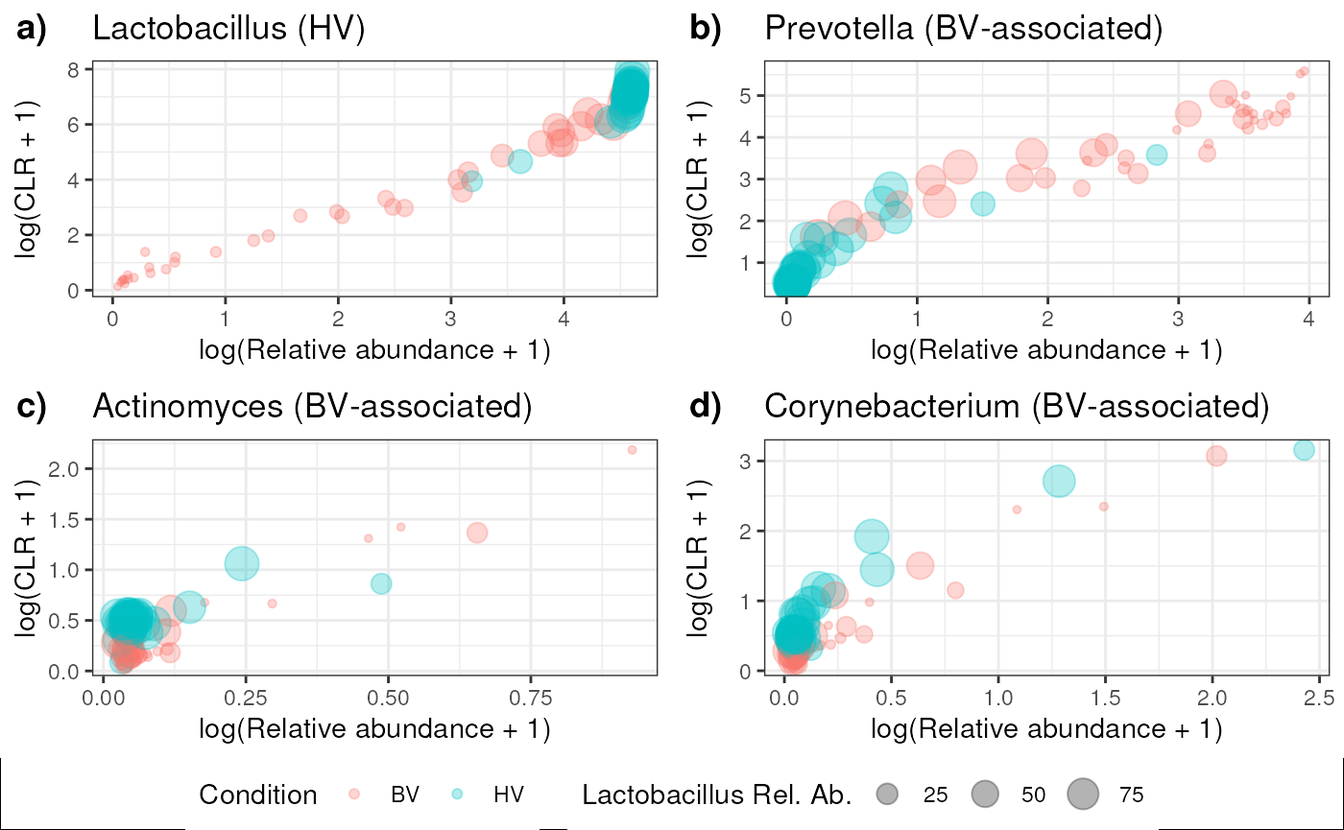
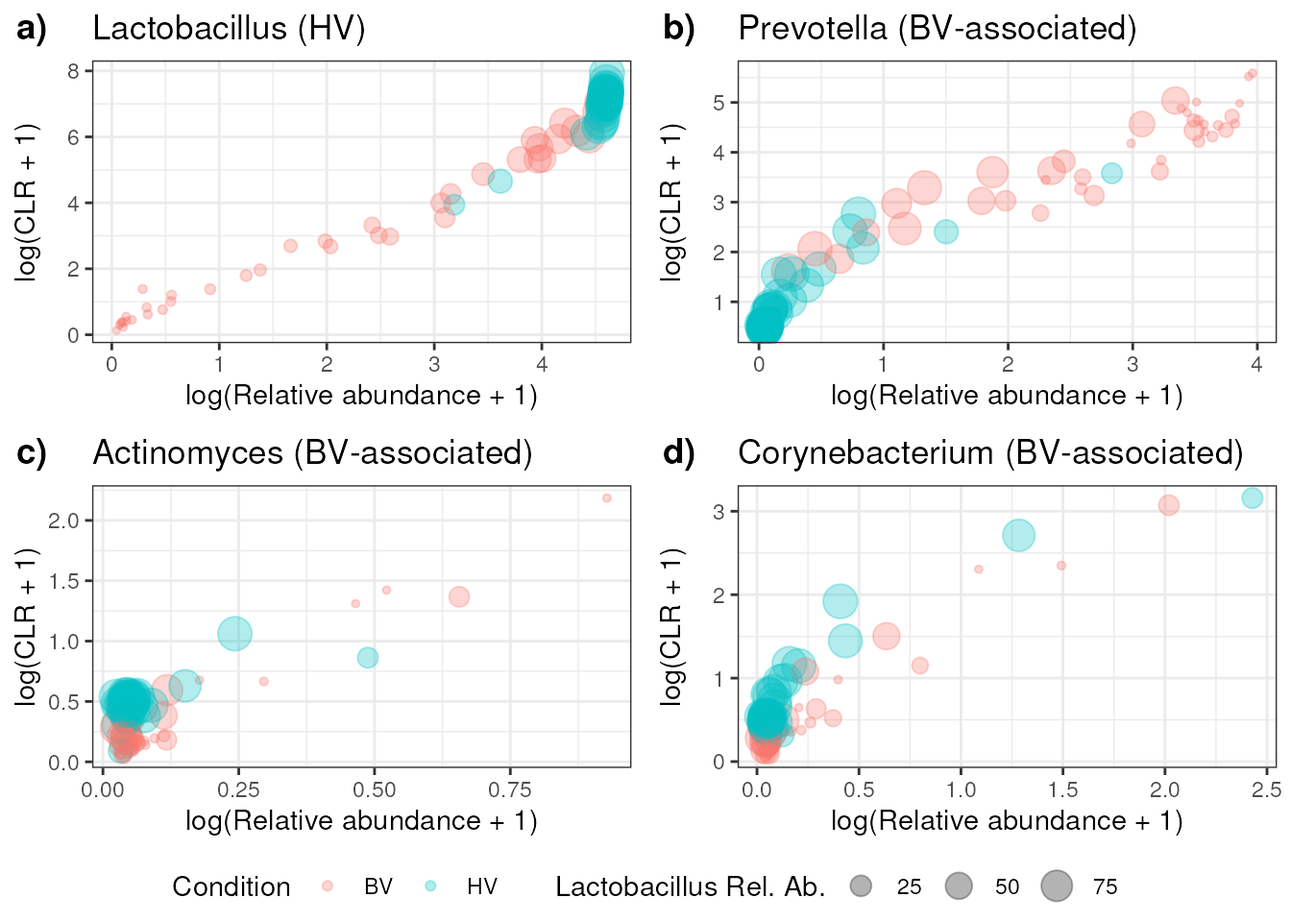
Deploying to gh-pages from @ waldronlab/MicrobiomeBenchmarkDataAnalyses@cbb00f844fb22e28ac13e2b4da3e5637ac655ac2 🚀

diff --git a/articles/Ravel_2011_16S_BV.html b/articles/Ravel_2011_16S_BV.html
@@ -33,7 +33,7 @@
       </button>
       <span class="navbar-brand">
         <a class="navbar-link" href="../index.html">MicrobiomeBenchmarkDataAnalyses</a>
-        <span class="version label label-default" data-toggle="tooltip" data-placement="bottom" title="">0.99.8</span>
+        <span class="version label label-default" data-toggle="tooltip" data-placement="bottom" title="">0.99.9</span>
       </span>
     </div>
 
@@ -256,16 +256,16 @@ new DA methods added to the original workflow and modified plots.</p>
 <span>    <span class="va">DA_output</span> <span class="op">&lt;-</span> <span class="fu">purrr</span><span class="fu">::</span><span class="fu"><a href="https://purrr.tidyverse.org/reference/list_flatten.html" class="external-link">list_flatten</a></span><span class="op">(</span><span class="va">DA_output</span>, name_spec <span class="op">=</span> <span class="st">"{inner}"</span><span class="op">)</span></span>
 <span>    <span class="va">DA_output</span> <span class="op">&lt;-</span> <span class="fu">purrr</span><span class="fu">::</span><span class="fu"><a href="https://purrr.tidyverse.org/reference/keep.html" class="external-link">discard</a></span><span class="op">(</span><span class="va">DA_output</span>, <span class="va">is.null</span><span class="op">)</span></span>
 <span><span class="op">}</span><span class="op">)</span></span></code></pre></div>
-<pre><code><span><span class="co">## Running method 1: DA_edgeR.1 - 2024-05-29 20:06:21.607167</span></span></code></pre>
-<pre><code><span><span class="co">## Running method 2: DA_edgeR.1 - 2024-05-29 20:06:21.769817</span></span></code></pre>
-<pre><code><span><span class="co">## Running method 3: DA_DESeq2.1 - 2024-05-29 20:06:21.856462</span></span></code></pre>
-<pre><code><span><span class="co">## Running method 4: DA_DESeq2.1 - 2024-05-29 20:06:24.952644</span></span></code></pre>
-<pre><code><span><span class="co">## Running method 5: DA_limma.1 - 2024-05-29 20:06:28.025464</span></span></code></pre>
-<pre><code><span><span class="co">## Running method 6: DA_limma.1 - 2024-05-29 20:06:28.039479</span></span></code></pre>
-<pre><code><span><span class="co">## Running method 7: DA_metagenomeSeq.1 - 2024-05-29 20:06:28.046904</span></span></code></pre>
-<pre><code><span><span class="co">## Running method 8: DA_ALDEx2.1 - 2024-05-29 20:06:28.243421</span></span></code></pre>
-<pre><code><span><span class="co">## Running method 9: DA_MAST.1 - 2024-05-29 20:06:29.231439</span></span></code></pre>
-<pre><code><span><span class="co">## Running method 10: DA_Seurat.1 - 2024-05-29 20:06:29.817428</span></span></code></pre>
+<pre><code><span><span class="co">## Running method 1: DA_edgeR.1 - 2024-05-29 20:20:27.108944</span></span></code></pre>
+<pre><code><span><span class="co">## Running method 2: DA_edgeR.1 - 2024-05-29 20:20:27.275063</span></span></code></pre>
+<pre><code><span><span class="co">## Running method 3: DA_DESeq2.1 - 2024-05-29 20:20:27.37417</span></span></code></pre>
+<pre><code><span><span class="co">## Running method 4: DA_DESeq2.1 - 2024-05-29 20:20:30.506985</span></span></code></pre>
+<pre><code><span><span class="co">## Running method 5: DA_limma.1 - 2024-05-29 20:20:33.709676</span></span></code></pre>
+<pre><code><span><span class="co">## Running method 6: DA_limma.1 - 2024-05-29 20:20:33.724245</span></span></code></pre>
+<pre><code><span><span class="co">## Running method 7: DA_metagenomeSeq.1 - 2024-05-29 20:20:33.73242</span></span></code></pre>
+<pre><code><span><span class="co">## Running method 8: DA_ALDEx2.1 - 2024-05-29 20:20:33.960756</span></span></code></pre>
+<pre><code><span><span class="co">## Running method 9: DA_MAST.1 - 2024-05-29 20:20:34.958698</span></span></code></pre>
+<pre><code><span><span class="co">## Running method 10: DA_Seurat.1 - 2024-05-29 20:20:35.541938</span></span></code></pre>
 <pre><code><span><span class="co">## For a (much!) faster implementation of the Wilcoxon Rank Sum Test,</span></span>
 <span><span class="co">## (default method for FindMarkers) please install the presto package</span></span>
 <span><span class="co">## --------------------------------------------</span></span>
@@ -275,7 +275,7 @@ new DA methods added to the original workflow and modified plots.</p>
 <span><span class="co">## After installation of presto, Seurat will automatically use the more </span></span>
 <span><span class="co">## efficient implementation (no further action necessary).</span></span>
 <span><span class="co">## This message will be shown once per session</span></span></code></pre>
-<pre><code><span><span class="co">## Running method 11: ancombc.1 - 2024-05-29 20:06:30.283442</span></span></code></pre>
+<pre><code><span><span class="co">## Running method 11: ancombc.1 - 2024-05-29 20:20:36.063137</span></span></code></pre>
 <pre><code><span><span class="co">## 'ancombc' has been fully evolved to 'ancombc2'. </span></span>
 <span><span class="co">## Explore the enhanced capabilities of our refined method!</span></span></code></pre>
 <pre><code><span><span class="co">## Loading required package: foreach</span></span></code></pre>
@@ -285,16 +285,16 @@ new DA methods added to the original workflow and modified plots.</p>
 <span><span class="co">## </span></span>
 <span><span class="co">##     accumulate, when</span></span></code></pre>
 <pre><code><span><span class="co">## Loading required package: rngtools</span></span></code></pre>
-<pre><code><span><span class="co">## Running method 12: wilcox.3 - 2024-05-29 20:06:33.720887</span></span></code></pre>
-<pre><code><span><span class="co">## Running method 13: wilcox.4 - 2024-05-29 20:06:33.77218</span></span></code></pre>
-<pre><code><span><span class="co">## Running method 14: ZINQ.9 - 2024-05-29 20:06:33.803789</span></span></code></pre>
-<pre><code><span><span class="co">## Running method 15: ZINQ.10 - 2024-05-29 20:06:34.194734</span></span></code></pre>
-<pre><code><span><span class="co">## Running method 16: lefse.12 - 2024-05-29 20:06:34.342132</span></span></code></pre>
-<pre><code><span><span class="co">## Running method 17: lefse.13 - 2024-05-29 20:06:35.851288</span></span></code></pre>
+<pre><code><span><span class="co">## Running method 12: wilcox.3 - 2024-05-29 20:20:39.560322</span></span></code></pre>
+<pre><code><span><span class="co">## Running method 13: wilcox.4 - 2024-05-29 20:20:39.612154</span></span></code></pre>
+<pre><code><span><span class="co">## Running method 14: ZINQ.9 - 2024-05-29 20:20:39.639329</span></span></code></pre>
+<pre><code><span><span class="co">## Running method 15: ZINQ.10 - 2024-05-29 20:20:40.026964</span></span></code></pre>
+<pre><code><span><span class="co">## Running method 16: lefse.12 - 2024-05-29 20:20:40.191978</span></span></code></pre>
+<pre><code><span><span class="co">## Running method 17: lefse.13 - 2024-05-29 20:20:40.595765</span></span></code></pre>
 <div class="sourceCode" id="cb34"><pre class="downlit sourceCode r">
 <code class="sourceCode R"><span><span class="va">tim</span></span></code></pre></div>
 <pre><code><span><span class="co">##    user  system elapsed </span></span>
-<span><span class="co">##  14.728   1.553  14.627</span></span></code></pre>
+<span><span class="co">##  13.829   1.648  13.860</span></span></code></pre>
 <div class="sourceCode" id="cb36"><pre class="downlit sourceCode r">
 <code class="sourceCode R"><span><span class="co"># ps &lt;- runNormalizations(set_norm_list(), ps, verbose = FALSE)</span></span>
 <span><span class="co"># zw &lt;- weights_ZINB(ps, design = conditions_col)</span></span>
@@ -1268,10 +1268,11 @@ Actinomyces, and Corynebacterium.</p>
 <span>    <span class="va">plot_4b</span>, <span class="va">plot_3b</span>, <span class="va">plot_1b</span>, <span class="va">plot_2b</span>, align <span class="op">=</span> <span class="st">'hv'</span>,</span>
 <span>    common.legend <span class="op">=</span> <span class="cn">TRUE</span>, legend <span class="op">=</span> <span class="st">'bottom'</span>, </span>
 <span>    labels <span class="op">=</span> <span class="fu"><a href="https://rdrr.io/r/base/c.html" class="external-link">c</a></span><span class="op">(</span><span class="st">'a)'</span>, <span class="st">'b)'</span>, <span class="st">'c)'</span>, <span class="st">'d)'</span><span class="op">)</span></span>
-<span><span class="op">)</span> <span class="op">+</span> <span class="fu">ggpubr</span><span class="fu">::</span><span class="fu"><a href="https://rpkgs.datanovia.com/ggpubr/reference/bgcolor.html" class="external-link">bgcolor</a></span><span class="op">(</span><span class="st">"white"</span><span class="op">)</span></span>
+<span><span class="op">)</span> </span>
+<span>    <span class="co"># ggpubr::bgcolor("white")</span></span>
 <span></span>
 <span><span class="va">plotsb</span></span></code></pre></div>
-<p><img src="Ravel_2011_16S_BV_files/figure-html/unnamed-chunk-24-1.png" width="700"></p>
+<p><img src="Ravel_2011_16S_BV_files/figure-html/unnamed-chunk-24-1.png" width="672"></p>
 </div>
 <div class="section level2">
 <h2 id="session-info">Session info<a class="anchor" aria-label="anchor" href="#session-info"></a>
@@ -1331,7 +1332,7 @@ Actinomyces, and Corynebacterium.</p>
 <span><span class="co">## [27] BiocGenerics_0.50.0                   </span></span>
 <span><span class="co">## [28] MatrixGenerics_1.16.0                 </span></span>
 <span><span class="co">## [29] matrixStats_1.3.0                     </span></span>
-<span><span class="co">## [30] MicrobiomeBenchmarkDataAnalyses_0.99.8</span></span>
+<span><span class="co">## [30] MicrobiomeBenchmarkDataAnalyses_0.99.9</span></span>
 <span><span class="co">## </span></span>
 <span><span class="co">## loaded via a namespace (and not attached):</span></span>
 <span><span class="co">##   [1] igraph_2.0.3                ica_1.0-3                  </span></span>

diff --git a/articles/HMP_2012_WMS_gingival.html b/articles/HMP_2012_WMS_gingival.html
@@ -33,7 +33,7 @@
       </button>
       <span class="navbar-brand">
         <a class="navbar-link" href="../index.html">MicrobiomeBenchmarkDataAnalyses</a>
-        <span class="version label label-default" data-toggle="tooltip" data-placement="bottom" title="">0.99.8</span>
+        <span class="version label label-default" data-toggle="tooltip" data-placement="bottom" title="">0.99.9</span>
       </span>
     </div>
 
@@ -230,14 +230,14 @@ subgingival plaque</h1>
 <span>    <span class="va">DA_output</span> <span class="op">&lt;-</span> <span class="fu">purrr</span><span class="fu">::</span><span class="fu"><a href="https://purrr.tidyverse.org/reference/list_flatten.html" class="external-link">list_flatten</a></span><span class="op">(</span><span class="va">DA_output</span>, name_spec <span class="op">=</span> <span class="st">"{inner}"</span><span class="op">)</span></span>
 <span>    <span class="va">DA_output</span> <span class="op">&lt;-</span> <span class="fu">purrr</span><span class="fu">::</span><span class="fu"><a href="https://purrr.tidyverse.org/reference/keep.html" class="external-link">discard</a></span><span class="op">(</span><span class="va">DA_output</span>, <span class="va">is.null</span><span class="op">)</span></span>
 <span><span class="op">}</span><span class="op">)</span></span></code></pre></div>
-<pre><code><span><span class="co">## Running method 1: DA_DESeq2.1 - 2024-05-29 20:04:57.477826</span></span></code></pre>
-<pre><code><span><span class="co">## Running method 2: DA_DESeq2.1 - 2024-05-29 20:05:02.707853</span></span></code></pre>
-<pre><code><span><span class="co">## Running method 3: DA_limma.1 - 2024-05-29 20:05:09.351876</span></span></code></pre>
-<pre><code><span><span class="co">## Running method 4: DA_limma.1 - 2024-05-29 20:05:09.374655</span></span></code></pre>
-<pre><code><span><span class="co">## Running method 5: DA_metagenomeSeq.1 - 2024-05-29 20:05:09.395756</span></span></code></pre>
-<pre><code><span><span class="co">## Running method 6: DA_ALDEx2.1 - 2024-05-29 20:05:09.879802</span></span></code></pre>
-<pre><code><span><span class="co">## Running method 7: DA_MAST.1 - 2024-05-29 20:05:11.716792</span></span></code></pre>
-<pre><code><span><span class="co">## Running method 8: DA_Seurat.1 - 2024-05-29 20:05:13.027448</span></span></code></pre>
+<pre><code><span><span class="co">## Running method 1: DA_DESeq2.1 - 2024-05-29 20:18:59.883903</span></span></code></pre>
+<pre><code><span><span class="co">## Running method 2: DA_DESeq2.1 - 2024-05-29 20:19:05.354417</span></span></code></pre>
+<pre><code><span><span class="co">## Running method 3: DA_limma.1 - 2024-05-29 20:19:12.429403</span></span></code></pre>
+<pre><code><span><span class="co">## Running method 4: DA_limma.1 - 2024-05-29 20:19:12.452692</span></span></code></pre>
+<pre><code><span><span class="co">## Running method 5: DA_metagenomeSeq.1 - 2024-05-29 20:19:12.469194</span></span></code></pre>
+<pre><code><span><span class="co">## Running method 6: DA_ALDEx2.1 - 2024-05-29 20:19:12.946127</span></span></code></pre>
+<pre><code><span><span class="co">## Running method 7: DA_MAST.1 - 2024-05-29 20:19:14.838935</span></span></code></pre>
+<pre><code><span><span class="co">## Running method 8: DA_Seurat.1 - 2024-05-29 20:19:16.164021</span></span></code></pre>
 <pre><code><span><span class="co">## For a (much!) faster implementation of the Wilcoxon Rank Sum Test,</span></span>
 <span><span class="co">## (default method for FindMarkers) please install the presto package</span></span>
 <span><span class="co">## --------------------------------------------</span></span>
@@ -247,7 +247,7 @@ subgingival plaque</h1>
 <span><span class="co">## After installation of presto, Seurat will automatically use the more </span></span>
 <span><span class="co">## efficient implementation (no further action necessary).</span></span>
 <span><span class="co">## This message will be shown once per session</span></span></code></pre>
-<pre><code><span><span class="co">## Running method 9: ancombc.1 - 2024-05-29 20:05:13.543902</span></span></code></pre>
+<pre><code><span><span class="co">## Running method 9: ancombc.1 - 2024-05-29 20:19:16.691196</span></span></code></pre>
 <pre><code><span><span class="co">## 'ancombc' has been fully evolved to 'ancombc2'. </span></span>
 <span><span class="co">## Explore the enhanced capabilities of our refined method!</span></span></code></pre>
 <pre><code><span><span class="co">## Loading required package: foreach</span></span></code></pre>
@@ -257,16 +257,16 @@ subgingival plaque</h1>
 <span><span class="co">## </span></span>
 <span><span class="co">##     accumulate, when</span></span></code></pre>
 <pre><code><span><span class="co">## Loading required package: rngtools</span></span></code></pre>
-<pre><code><span><span class="co">## Running method 10: wilcox.3 - 2024-05-29 20:05:37.472812</span></span></code></pre>
-<pre><code><span><span class="co">## Running method 11: wilcox.4 - 2024-05-29 20:05:37.649764</span></span></code></pre>
-<pre><code><span><span class="co">## Running method 12: ZINQ.9 - 2024-05-29 20:05:37.777002</span></span></code></pre>
-<pre><code><span><span class="co">## Running method 13: ZINQ.10 - 2024-05-29 20:05:38.697752</span></span></code></pre>
-<pre><code><span><span class="co">## Running method 14: lefse.12 - 2024-05-29 20:05:39.469065</span></span></code></pre>
-<pre><code><span><span class="co">## Running method 15: lefse.13 - 2024-05-29 20:05:41.064052</span></span></code></pre>
+<pre><code><span><span class="co">## Running method 10: wilcox.3 - 2024-05-29 20:19:40.189383</span></span></code></pre>
+<pre><code><span><span class="co">## Running method 11: wilcox.4 - 2024-05-29 20:19:40.375273</span></span></code></pre>
+<pre><code><span><span class="co">## Running method 12: ZINQ.9 - 2024-05-29 20:19:40.5102</span></span></code></pre>
+<pre><code><span><span class="co">## Running method 13: ZINQ.10 - 2024-05-29 20:19:41.52212</span></span></code></pre>
+<pre><code><span><span class="co">## Running method 14: lefse.12 - 2024-05-29 20:19:42.374832</span></span></code></pre>
+<pre><code><span><span class="co">## Running method 15: lefse.13 - 2024-05-29 20:19:44.222275</span></span></code></pre>
 <div class="sourceCode" id="cb32"><pre class="downlit sourceCode r">
 <code class="sourceCode R"><span><span class="va">tim</span></span></code></pre></div>
 <pre><code><span><span class="co">##    user  system elapsed </span></span>
-<span><span class="co">##  46.850   8.134  45.628</span></span></code></pre>
+<span><span class="co">##  47.513   8.677  46.484</span></span></code></pre>
 </div>
 </div>
 <div class="section level2">
@@ -406,7 +406,7 @@ subgingival plaque</h1>
 <span><span class="co">## [23] BiocGenerics_0.50.0                   </span></span>
 <span><span class="co">## [24] MatrixGenerics_1.16.0                 </span></span>
 <span><span class="co">## [25] matrixStats_1.3.0                     </span></span>
-<span><span class="co">## [26] MicrobiomeBenchmarkDataAnalyses_0.99.8</span></span>
+<span><span class="co">## [26] MicrobiomeBenchmarkDataAnalyses_0.99.9</span></span>
 <span><span class="co">## </span></span>
 <span><span class="co">## loaded via a namespace (and not attached):</span></span>
 <span><span class="co">##   [1] igraph_2.0.3                ica_1.0-3                  </span></span>

diff --git a/articles/HMP_2012_16S_gingival_V13.html b/articles/HMP_2012_16S_gingival_V13.html
@@ -33,7 +33,7 @@
       </button>
       <span class="navbar-brand">
         <a class="navbar-link" href="../index.html">MicrobiomeBenchmarkDataAnalyses</a>
-        <span class="version label label-default" data-toggle="tooltip" data-placement="bottom" title="">0.99.8</span>
+        <span class="version label label-default" data-toggle="tooltip" data-placement="bottom" title="">0.99.9</span>
       </span>
     </div>
 
@@ -334,7 +334,7 @@ same</p>
 <span><span class="op">}</span><span class="op">)</span></span>
 <span><span class="va">tim</span></span>
 <span><span class="co">#&gt;    user  system elapsed </span></span>
-<span><span class="co">#&gt; 252.081  32.188 253.535</span></span></code></pre></div>
+<span><span class="co">#&gt; 255.322  34.521 258.599</span></span></code></pre></div>
 </div>
 <div class="section level3">
 <h3 id="enrichment-analysis">Enrichment analysis<a class="anchor" aria-label="anchor" href="#enrichment-analysis"></a>
@@ -477,7 +477,7 @@ same</p>
 <span><span class="co">#&gt; [23] BiocGenerics_0.50.0                   </span></span>
 <span><span class="co">#&gt; [24] MatrixGenerics_1.16.0                 </span></span>
 <span><span class="co">#&gt; [25] matrixStats_1.3.0                     </span></span>
-<span><span class="co">#&gt; [26] MicrobiomeBenchmarkDataAnalyses_0.99.8</span></span>
+<span><span class="co">#&gt; [26] MicrobiomeBenchmarkDataAnalyses_0.99.9</span></span>
 <span><span class="co">#&gt; </span></span>
 <span><span class="co">#&gt; loaded via a namespace (and not attached):</span></span>
 <span><span class="co">#&gt;   [1] igraph_2.0.3                ica_1.0-3                  </span></span>

diff --git a/articles/HMP_2012_16S_gingival_V35.html b/articles/HMP_2012_16S_gingival_V35.html
@@ -33,7 +33,7 @@
       </button>
       <span class="navbar-brand">
         <a class="navbar-link" href="../index.html">MicrobiomeBenchmarkDataAnalyses</a>
-        <span class="version label label-default" data-toggle="tooltip" data-placement="bottom" title="">0.99.8</span>
+        <span class="version label label-default" data-toggle="tooltip" data-placement="bottom" title="">0.99.9</span>
       </span>
     </div>
 
@@ -335,7 +335,7 @@ same</p>
 <span><span class="op">}</span><span class="op">)</span></span>
 <span><span class="va">tim</span></span>
 <span><span class="co">#&gt;    user  system elapsed </span></span>
-<span><span class="co">#&gt; 441.785  39.097 441.581</span></span></code></pre></div>
+<span><span class="co">#&gt; 446.561  40.519 447.295</span></span></code></pre></div>
 </div>
 <div class="section level3">
 <h3 id="enrichment-analysis">Enrichment analysis<a class="anchor" aria-label="anchor" href="#enrichment-analysis"></a>
@@ -488,7 +488,7 @@ same</p>
 <span><span class="co">#&gt; [24] BiocGenerics_0.50.0                   </span></span>
 <span><span class="co">#&gt; [25] MatrixGenerics_1.16.0                 </span></span>
 <span><span class="co">#&gt; [26] matrixStats_1.3.0                     </span></span>
-<span><span class="co">#&gt; [27] MicrobiomeBenchmarkDataAnalyses_0.99.8</span></span>
+<span><span class="co">#&gt; [27] MicrobiomeBenchmarkDataAnalyses_0.99.9</span></span>
 <span><span class="co">#&gt; </span></span>
 <span><span class="co">#&gt; loaded via a namespace (and not attached):</span></span>
 <span><span class="co">#&gt;   [1] igraph_2.0.3                ica_1.0-3                  </span></span>

diff --git a/articles/HMP_2012_16S_gingival_V35_subset.html b/articles/HMP_2012_16S_gingival_V35_subset.html
@@ -33,7 +33,7 @@
       </button>
       <span class="navbar-brand">
         <a class="navbar-link" href="../index.html">MicrobiomeBenchmarkDataAnalyses</a>
-        <span class="version label label-default" data-toggle="tooltip" data-placement="bottom" title="">0.99.8</span>
+        <span class="version label label-default" data-toggle="tooltip" data-placement="bottom" title="">0.99.9</span>
       </span>
     </div>
 
@@ -224,7 +224,7 @@ vs supragingival</h1>
 <span><span class="op">}</span><span class="op">)</span></span>
 <span><span class="va">tim</span></span></code></pre></div>
 <pre><code><span><span class="co">##    user  system elapsed </span></span>
-<span><span class="co">## 248.118  10.088 246.733</span></span></code></pre>
+<span><span class="co">## 257.684   9.737 256.304</span></span></code></pre>
 </div>
 <div class="section level2">
 <h2 id="enrichment">Enrichment<a class="anchor" aria-label="anchor" href="#enrichment"></a>
@@ -362,7 +362,7 @@ vs supragingival</h1>
 <span><span class="co">## [22] BiocGenerics_0.50.0                   </span></span>
 <span><span class="co">## [23] MatrixGenerics_1.16.0                 </span></span>
 <span><span class="co">## [24] matrixStats_1.3.0                     </span></span>
-<span><span class="co">## [25] MicrobiomeBenchmarkDataAnalyses_0.99.8</span></span>
+<span><span class="co">## [25] MicrobiomeBenchmarkDataAnalyses_0.99.9</span></span>
 <span><span class="co">## </span></span>
 <span><span class="co">## loaded via a namespace (and not attached):</span></span>
 <span><span class="co">##   [1] igraph_2.0.3                ica_1.0-3                  </span></span>

diff --git a/authors.html b/authors.html
@@ -17,7 +17,7 @@
       </button>
       <span class="navbar-brand">
         <a class="navbar-link" href="index.html">MicrobiomeBenchmarkDataAnalyses</a>
-        <span class="version label label-default" data-toggle="tooltip" data-placement="bottom" title="">0.99.8</span>
+        <span class="version label label-default" data-toggle="tooltip" data-placement="bottom" title="">0.99.9</span>
       </span>
     </div>
 
@@ -88,13 +88,13 @@
 
     <p>Gamboa-Tuz S (2024).
 <em>MicrobiomeBenchmarkDataAnalyses: Benchmarking analyses with the MicrobiomeBenchmarkData package</em>.
-R package version 0.99.8, <a href="https://github.com/waldronlab/MicrobiomeBenchmarkDataAnalyses" class="external-link">https://github.com/waldronlab/MicrobiomeBenchmarkDataAnalyses</a>. 
+R package version 0.99.9, <a href="https://github.com/waldronlab/MicrobiomeBenchmarkDataAnalyses" class="external-link">https://github.com/waldronlab/MicrobiomeBenchmarkDataAnalyses</a>. 
 </p>
     <pre>@Manual{,
   title = {MicrobiomeBenchmarkDataAnalyses: Benchmarking analyses with the MicrobiomeBenchmarkData package},
   author = {Samuel David Gamboa-Tuz},
   year = {2024},
-  note = {R package version 0.99.8},
+  note = {R package version 0.99.9},
   url = {https://github.com/waldronlab/MicrobiomeBenchmarkDataAnalyses},
 }</pre>
 

diff --git a/articles/Stammler_2016_16S_spikein.html b/articles/Stammler_2016_16S_spikein.html
@@ -33,7 +33,7 @@
       </button>
       <span class="navbar-brand">
         <a class="navbar-link" href="../index.html">MicrobiomeBenchmarkDataAnalyses</a>
-        <span class="version label label-default" data-toggle="tooltip" data-placement="bottom" title="">0.99.8</span>
+        <span class="version label label-default" data-toggle="tooltip" data-placement="bottom" title="">0.99.9</span>
       </span>
     </div>
 
@@ -332,7 +332,7 @@ of variation</h3>
 <span><span class="co">#&gt; [18] BiocGenerics_0.50.0                   </span></span>
 <span><span class="co">#&gt; [19] MatrixGenerics_1.16.0                 </span></span>
 <span><span class="co">#&gt; [20] matrixStats_1.3.0                     </span></span>
-<span><span class="co">#&gt; [21] MicrobiomeBenchmarkDataAnalyses_0.99.8</span></span>
+<span><span class="co">#&gt; [21] MicrobiomeBenchmarkDataAnalyses_0.99.9</span></span>
 <span><span class="co">#&gt; </span></span>
 <span><span class="co">#&gt; loaded via a namespace (and not attached):</span></span>
 <span><span class="co">#&gt;  [1] DBI_1.2.2               sandwich_3.1-0          rlang_1.1.3            </span></span>

diff --git a/reference/DA_ZINQ.html b/reference/DA_ZINQ.html
@@ -18,7 +18,7 @@ package."><!-- mathjax --><script src="https://cdnjs.cloudflare.com/ajax/libs/ma
       </button>
       <span class="navbar-brand">
         <a class="navbar-link" href="../index.html">MicrobiomeBenchmarkDataAnalyses</a>
-        <span class="version label label-default" data-toggle="tooltip" data-placement="bottom" title="">0.99.8</span>
+        <span class="version label label-default" data-toggle="tooltip" data-placement="bottom" title="">0.99.9</span>
       </span>
     </div>
 

diff --git a/reference/DA_ancombc.html b/reference/DA_ancombc.html
@@ -18,7 +18,7 @@ function for integration in the benchdamic framework."><!-- mathjax --><script s
       </button>
       <span class="navbar-brand">
         <a class="navbar-link" href="../index.html">MicrobiomeBenchmarkDataAnalyses</a>
-        <span class="version label label-default" data-toggle="tooltip" data-placement="bottom" title="">0.99.8</span>
+        <span class="version label label-default" data-toggle="tooltip" data-placement="bottom" title="">0.99.9</span>
       </span>
     </div>
 

diff --git a/reference/DA_lefse.html b/reference/DA_lefse.html
@@ -18,7 +18,7 @@ the pvalues of the Kruskal test."><!-- mathjax --><script src="https://cdnjs.clo
       </button>
       <span class="navbar-brand">
         <a class="navbar-link" href="../index.html">MicrobiomeBenchmarkDataAnalyses</a>
-        <span class="version label label-default" data-toggle="tooltip" data-placement="bottom" title="">0.99.8</span>
+        <span class="version label label-default" data-toggle="tooltip" data-placement="bottom" title="">0.99.9</span>
       </span>
     </div>
 

diff --git a/reference/MicrobiomeBenchmarkDataAnalyses.html b/reference/MicrobiomeBenchmarkDataAnalyses.html
@@ -18,7 +18,7 @@ performed on the MicrobiomeBenchmarkData package."><!-- mathjax --><script src="
       </button>
       <span class="navbar-brand">
         <a class="navbar-link" href="../index.html">MicrobiomeBenchmarkDataAnalyses</a>
-        <span class="version label label-default" data-toggle="tooltip" data-placement="bottom" title="">0.99.8</span>
+        <span class="version label label-default" data-toggle="tooltip" data-placement="bottom" title="">0.99.9</span>
       </span>
     </div>
 

diff --git a/reference/editMiaTaxaNames.html b/reference/editMiaTaxaNames.html
@@ -19,7 +19,7 @@ are coming bad for some datasets. This is a workaround."><!-- mathjax --><script
       </button>
       <span class="navbar-brand">
         <a class="navbar-link" href="../index.html">MicrobiomeBenchmarkDataAnalyses</a>
-        <span class="version label label-default" data-toggle="tooltip" data-placement="bottom" title="">0.99.8</span>
+        <span class="version label label-default" data-toggle="tooltip" data-placement="bottom" title="">0.99.9</span>
       </span>
     </div>
 
